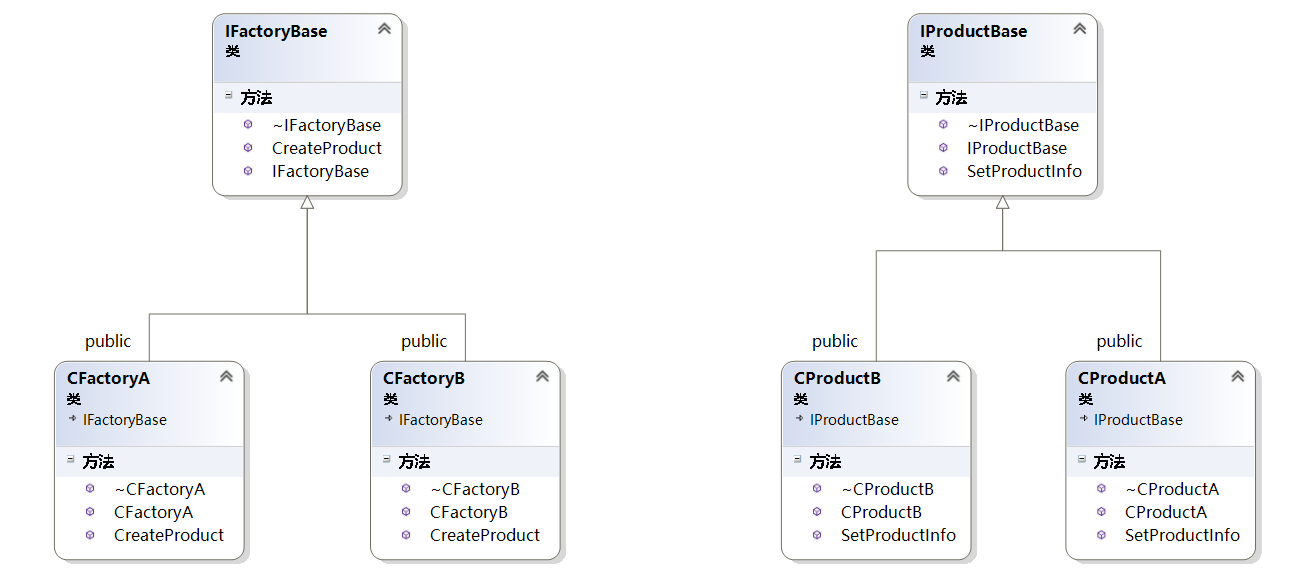
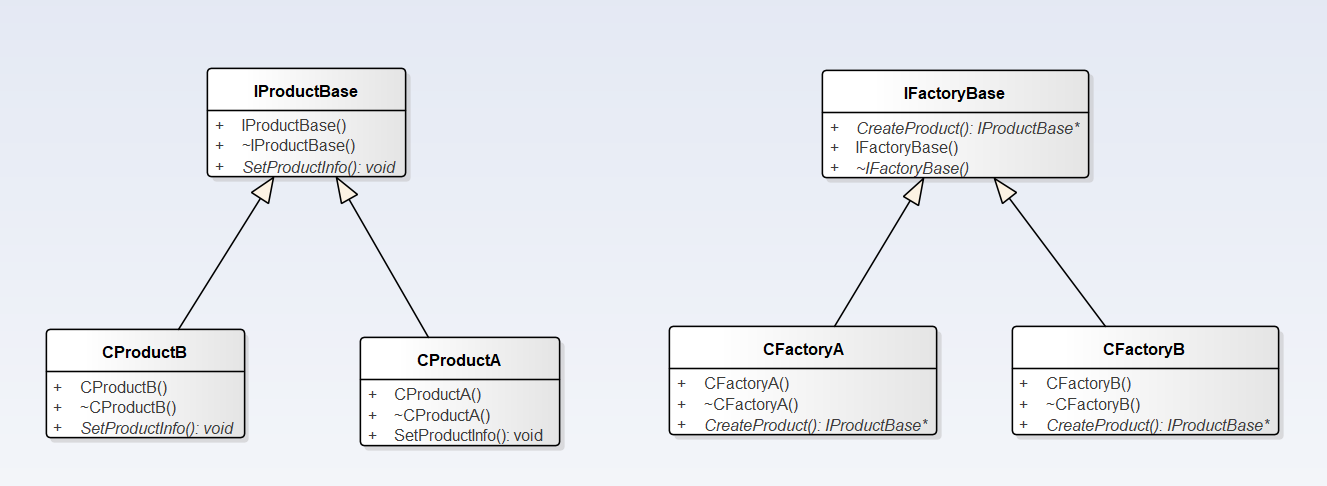
工厂方法模式[ReadMe]

diff --git a/README.md b/README.md
@@ -1,1 +1,68 @@
 # DesignPatterns
+
+![设计模式概括](D:\CodeForC++\DailyLearning\DesignPatterns\DesignPatterns\pic\设计模式概况.jpg)
+
+
+
+| 范围      | 创建型                                      | 结构型                              | 行为型                                      |
+| ------- | ---------------------------------------- | -------------------------------- | ---------------------------------------- |
+| 对象创建    | Factory Method（工厂方法）Abstract Factory（抽象工厂）Singleton（单例）Prototype（原型）Builder（建造者） |                                  |                                          |
+| 接口适配    |                                          | Adapter（适配器）Bridge（桥接）Façade（外观） |                                          |
+| 对象去耦    |                                          |                                  | Mediator（中介者）Observer（观察者）               |
+| 抽象集合    |                                          | Composite（组合）                    | Iterator（迭代器）                            |
+| 行为扩展    |                                          | Decorator（装饰）                    | Visitor（访问者）Chain of Responsibility（职责链） |
+| 算法封装    |                                          |                                  | Template Method（模板方法）Strategy（策略）Command |
+| 性能与对象访问 |                                          | Flyweight（享元）Proxy（代理）           |                                          |
+| 对象状态    |                                          |                                  | Memento（备忘录）State（状态）                    |
+| 其它      |                                          |                                  | Interpreter（解释器）                         |
+
+## 工厂方法模式(Factory Methord)
+
+**定义**
+
+工厂方法模式又称为工厂模式，也叫虚拟构造器（Virtual Constructor）模式或者多态工厂模式（Polymorphic Factory），在工厂方法模式中，父类负责定义创建对象的公共接口，而子类则负责生成具体的对象，这样做的目的是将类的实例化操作延迟到子类中完成，即由子类来决定究竟应该实例化（创建）哪一个类。
+
+工厂方式法模式（Factory Method），定义了一个用于创建对象的接口，让子类决定实例化哪一个类。工厂方法使一个类的实例化延迟到子类。
+
+**意图**
+
+定义一个用户创建对象的接口，让子类决定实例化哪一个类，工厂方法模式使一个类的实例化延迟到其子类。
+
+**参与者**
+
+抽象产品角色（IProduct）：定义产品的接口
+具体产品角色（ConcreteProduct） ：实现接口Product的具体产品类
+抽象工厂角色（Factory） ：声明工厂方法（CreateProduct），返回产品的接口
+真实的工厂（ConcreteFactory）：实现CreateProduct工厂方法，由客户调用，返回一个产品的实例
+
+**类图**
+
+![FactoryMethodPattern](D:\CodeForC++\DailyLearning\DesignPatterns\DesignPatterns\pic\FactoryMethodPattern.PNG)
+
+**工厂方法模式的优点**
+在工厂方法模式中，工厂方法用来创建客户所需要的产品，同时还向客户隐藏了哪种具体产品类将被实例化这一细节，用户只需要关心所需产品对应的工厂，无须关心创建细节，甚至无须知道具体产品类的类名。
+
+基于工厂角色和产品角色的多态性设计是工厂方法模式的关键。它能够使工厂可以自主确定创建何种产品对象，而如何创建这个对象的细节则完全封装在具体工厂内部。工厂方法模式之所以又被称为多态工厂模式，是因为所有的具体工厂类都具有同一抽象父类。
+
+使用工厂方法模式的另一个优点是在系统中加入新产品时，无须修改抽象工厂和抽象产品提供的接口，无须修改客户端，也无须修改其他的具体工厂和具体产品，而只要添加一个具体工厂和具体产品就可以了。这样，系统的可扩展性也就变得非常好，完全符合“开闭原则”。
+
+**工厂方法模式的缺点**
+在添加新产品时，需要编写新的具体产品类，而且还要提供与之对应的具体工厂类，系统中类的个数将成对增加，在一定程度上增加了系统的复杂度，有更多的类需要编译和运行，会给系统带来一些额外的开销。
+
+由于考虑到系统的可扩展性，需要引入抽象层，在客户端代码中均使用抽象层进行定义，增加了系统的抽象性和理解难度，且在实现时可能需要用到DOM、反射等技术，增加了系统的实现难度。
+
+**模式适用环境**
+在以下情况下可以使用工厂方法模式：
+
+一个类不知道它所需要的对象的类：在工厂方法模式中，客户端不需要知道具体产品类的类名，只需要知道所对应的工厂即可，具体的产品对象由具体工厂类创建；客户端需要知道创建具体产品的工厂类。
+
+一个类通过其子类来指定创建哪个对象：在工厂方法模式中，对于抽象工厂类只需要提供一个创建产品的接口，而由其子类来确定具体要创建的对象，利用面向对象的多态性和里氏代换原则，在程序运行时，子类对象将覆盖父类对象，从而使得系统更容易扩展。
+
+将创建对象的任务委托给多个工厂子类中的某一个，客户端在使用时可以无须关心是哪一个工厂子类创建产品子类，需要时再动态指定，可将具体工厂类的类名存储在配置文件或数据库中。
+
+**小结**
+工厂方法模式又称为工厂模式，它属于类创建型模式。在工厂方法模式中，工厂父类负责定义创建产品对象的公共接口，而工厂子类则负责生成具体的产品对象，这样做的目的是将产品类的实例化操作延迟到工厂子类中完成，即通过工厂子类来确定究竟应该实例化哪一个具体产品类。
+工厂方法模式包含四个角色：抽象产品是定义产品的接口，是工厂方法模式所创建对象的超类型，即产品对象的共同父类或接口；具体产品实现了抽象产品接口，某种类型的具体产品由专门的具体工厂创建，它们之间往往一一对应；抽象工厂中声明了工厂方法，用于返回一个产品，它是工厂方法模式的核心，任何在模式中创建对象的工厂类都必须实现该接口；具体工厂是抽象工厂类的子类，实现了抽象工厂中定义的工厂方法，并可由客户调用，返回一个具体产品类的实例。 
+工厂方法模式是简单工厂模式的进一步抽象和推广。由于使用了面向对象的多态性，工厂方法模式保持了简单工厂模式的优点，而且克服了它的缺点。在工厂方法模式中，核心的工厂类不再负责所有产品的创建，而是将具体创建工作交给子类去做。这个核心类仅仅负责给出具体工厂必须实现的接口，而不负责产品类被实例化这种细节，这使得工厂方法模式可以允许系统在不修改工厂角色的情况下引进新产品。 
+工厂方法模式的主要优点是增加新的产品类时无须修改现有系统，并封装了产品对象的创建细节，系统具有良好的灵活性和可扩展性；其缺点在于增加新产品的同时需要增加新的工厂，导致系统类的个数成对增加，在一定程度上增加了系统的复杂性。 
+工厂方法模式适用情况包括：一个类不知道它所需要的对象的类；一个类通过其子类来指定创建哪个对象；将创建对象的任务委托给多个工厂子类中的某一个，客户端在使用时可以无须关心是哪一个工厂子类创建产品子类，需要时再动态指定。
